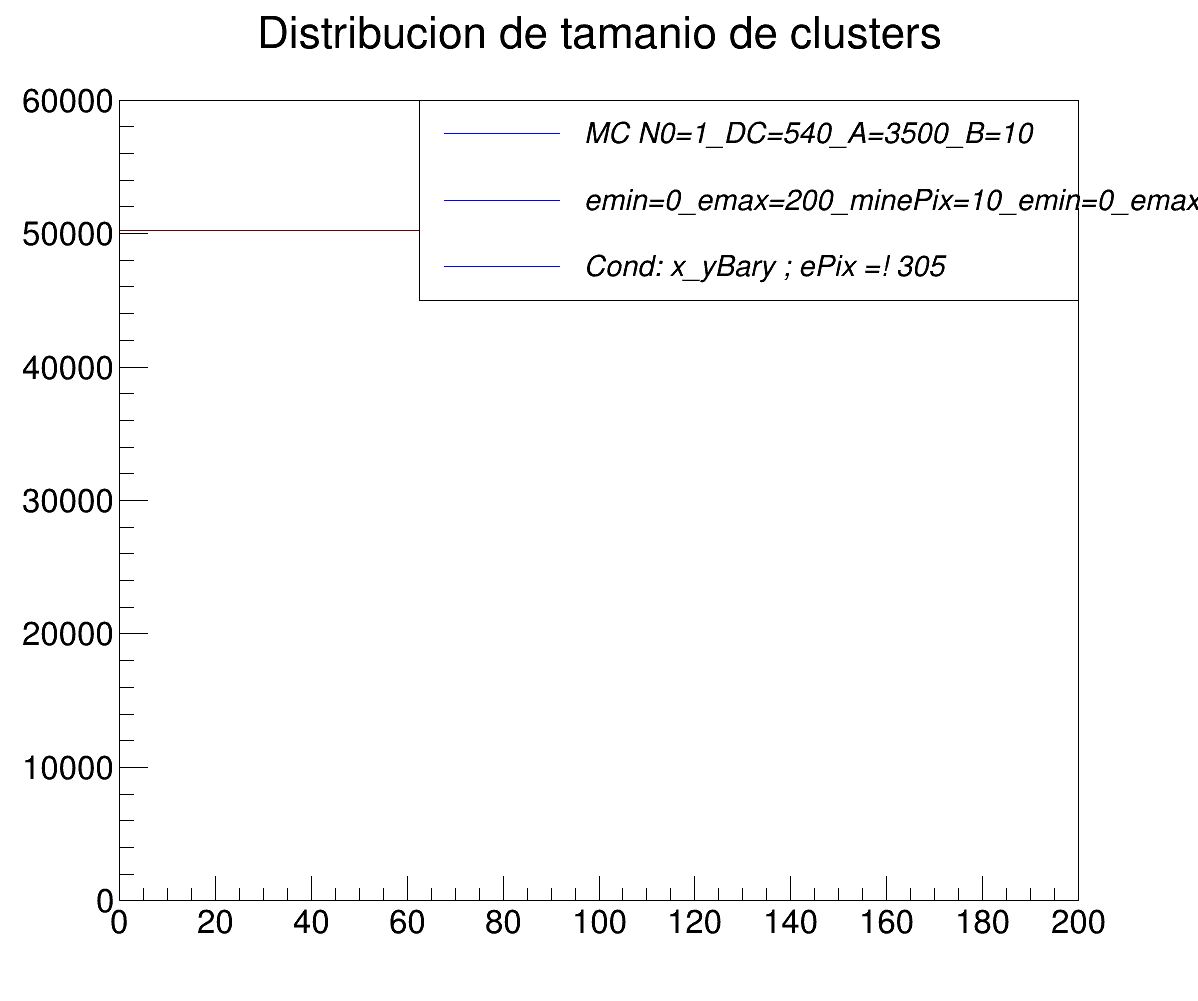
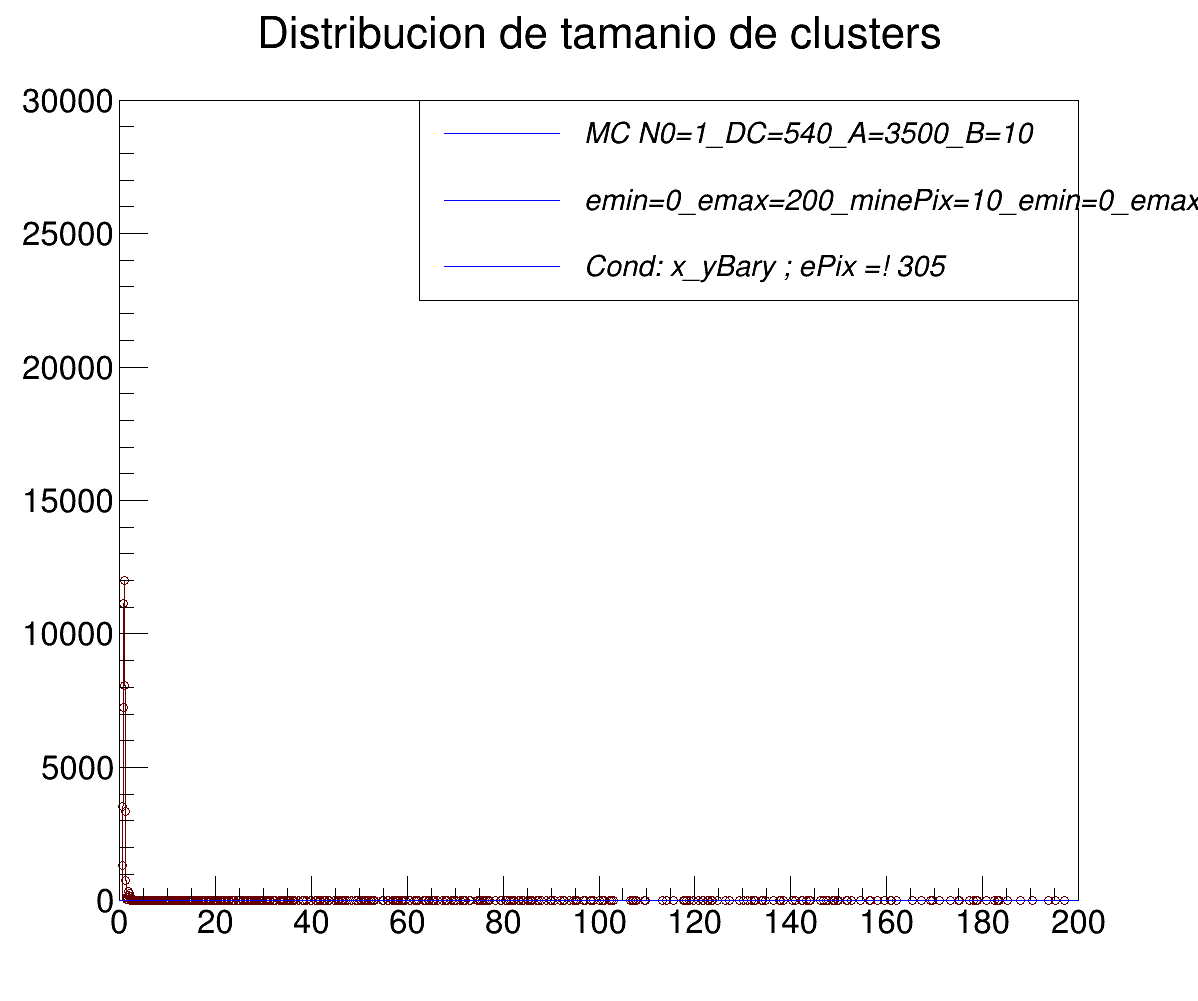
123456

diff --git a/MC/fano_calculator4.C b/MC/fano_calculator4.C
@@ -80,18 +80,22 @@ string itos(const int i){
 
 
 
-void fano_calculator3(){
+void fano_calculator4(){
 
 // Experimental Data ///////////////////////////////////////////////////
 // Get input files//////////////////////////////////////////////////////
 
 cout<<"min ePix: "<< minePix<<endl;
-					int M=14;
+					int M=1;
 					
 					ofstream myfile;
 					myfile.open ("../mejor/figures/example.txt");	
 
-				
+
+					TH1D * h_exp_e_total  =  new TH1D("h_exp_e_total","", 3000, emin, emax);
+					h_exp_e_total -> Sumw2();
+					
+				 
 					double mean_exp_fit[nbins][M];
 					double sigma_exp_fit[nbins][M];
 					double fano_exp_fit[nbins][M];
@@ -179,12 +183,13 @@ cout<<"min ePix: "<< minePix<<endl;
       									if (yBary>3 && yBary<48){
 
                  // cout << "i= "<< i << endl;
-									h_exp_e[ene]->Fill(e);
-									
-
-							
-									i++;
-                          }
+									for (int p = 0; p < ene; ++p){
+											h_exp_e[ene] -> Fill(ePix[p]);
+											h_exp_e_total->Fill(ePix[p]);
+											
+											//J++;
+											}
+											                          }
                         }
                       }
                     }
@@ -201,7 +206,7 @@ cout<<"min ePix: "<< minePix<<endl;
 						canvitas->cd();
 						fit1->Draw();
 						h_exp_e[ene]->Draw("HIST E1 same");
-						canvitas->SaveAs(("../mejor/figures/Fit_M="+itos(m)+"_N="+itos(ene)+"Fano3.png").c_str());
+						canvitas->SaveAs(("../mejor/figures/Fit_M="+itos(m)+"_N="+itos(ene)+"Fano4.png").c_str());
 
 
 						sigma_exp_fit[ene][m]= fit1->GetParameter(2);
@@ -226,9 +231,7 @@ cout<<"min ePix: "<< minePix<<endl;
 	} //closes for 
 	myfile.close();
 	
-	
-	
-	
+		
 		TCanvas *c3 = new TCanvas("c3","",200,10,1600,1000);
 		c3->SetFillColor(42);
 		c3->SetGrid();
@@ -286,7 +289,7 @@ cout<<"min ePix: "<< minePix<<endl;
 	}
 	//TGraph *grr = new TGraph(M,x,prom); 
 	//grr->Draw("AC same");
-	c3->SaveAs(("../mejor/figures/MeanGraph_N="+itos(nbins)+"_hasta M=+"+itos(M)+"_minePix="+itos(minePix)+"Fano3.png").c_str());
+	c3->SaveAs(("../mejor/figures/MeanGraph_N="+itos(nbins)+"_hasta M=+"+itos(M)+"_minePix="+itos(minePix)+"Fano4.png").c_str());
 	
 		TCanvas *c2 = new TCanvas("c2","",200,10,1600,1000);
 		c2->SetFillColor(42);
@@ -334,7 +337,7 @@ cout<<"min ePix: "<< minePix<<endl;
 	}
 	
 		
-		c2->SaveAs(("../mejor/figures/SigmaGraph_N="+itos(nbins)+"_hasta M=+"+itos(M)+"_minePix="+itos(minePix)+"Fano3.png").c_str());
+		c2->SaveAs(("../mejor/figures/SigmaGraph_N="+itos(nbins)+"_hasta M=+"+itos(M)+"_minePix="+itos(minePix)+"Fano4.png").c_str());
 		
 		
 		
@@ -372,8 +375,8 @@ cout<<"min ePix: "<< minePix<<endl;
 	   auto promedio_str = std::to_string(promedio);
 	   auto rms_str = std::to_string(RMS);
 	   
-	   gr->SetMinimum(0.0);
-	   gr->SetMaximum(0.3);
+	   gr->SetMinimum(0.095);
+	   gr->SetMaximum(0.2);
 	   gr->SetLineColor(j+1);
 	   gr->SetLineWidth(4);
 	   gr->SetMarkerColor(4);
@@ -395,7 +398,13 @@ cout<<"min ePix: "<< minePix<<endl;
 	}
 	//TGraph *grr = new TGraph(M,x,prom); 
 	//grr->Draw("AC same");
-	c1->SaveAs(("../mejor/figures/FanoGraph_N="+itos(nbins)+"_hasta M=+"+itos(M)+"_minePix="+itos(minePix)+"Fano3.png").c_str());
+	c1->SaveAs(("../mejor/figures/FanoGraph_N="+itos(nbins)+"_hasta M=+"+itos(M)+"_minePix="+itos(minePix)+"Fano4.png").c_str());
+
+		TCanvas *c4 = new TCanvas("c4","",200,10,1600,1000);
+		c4->cd();
+		h_exp_e_total->Draw();
+	
+
 
 }
 

diff --git a/MC/Plot_ePix.C b/MC/Plot_ePix.C
@@ -34,11 +34,11 @@ void Enable_and_Set_Branches(TTree* & tree);
 // Setting parameters //////////////////////////////////////////////////
 
 // range for the number of electrons per cluster
-  int emin =0 ; int emax = 200;
+  int emin =0 ; int emax = 5;
   int ohdu_numer = 4;
 //number of bins to take into account for chi2
   int   bines = 7;
-  float minePix = 10; // will be clasified as 1e-
+  float minePix = 0; // will be clasified as 1e-
 
   ////////////////////////////////////////////////////////////////////////
 
@@ -51,7 +51,7 @@ void Enable_and_Set_Branches(TTree* & tree);
   //int xBary_min=0;int xBary_max=100;
   //int yBary_min=0;int yBary_max=100;
 
-  int nbins = xmax*10+1;
+  int nbins = xmax*100+1;
 
   const int maxClusterSize = 50000;
 
@@ -107,15 +107,16 @@ cout<<"min ePix"<< minePix<<endl;
 					for(int i_event=0;i_event<Entries_exp; i_event++){
 
 					texp->GetEntry(i_event);
+					
 
-						if (ohdu == ohdu_numer) {
+						if (ohdu == ohdu_numer) { 
 							if (e>emin && e<emax){  // number of electrons
 
 								// Check if one of the pixels in the cluster is smaller that minePix
-								bool LowPixInCluster = false;
+								bool LowPixInCluster = true;
 								for (int p = 0; p < nSavedPix; ++p){
 									if(ePix[p]<minePix){
-										LowPixInCluster = true;
+										LowPixInCluster = false;
 										break;
 									}
 								}
@@ -172,6 +173,7 @@ cout<<"min ePix"<< minePix<<endl;
 				// Get input files//////////////////////////////////////////////////////
 
 
+
 					TFile * f_mc = TFile::Open(("./Grilla DC A=3500 B=10/output_N0="+itos(N)+"_DC="+itos(DC)+"_A="+itos(A)+"_B="+itos(B)+".root").c_str());
 
 					if (!f_mc->IsOpen()) {std::cerr << "ERROR: cannot open the root file with MC data" << std::endl;}
@@ -205,7 +207,7 @@ cout<<"min ePix"<< minePix<<endl;
 									
 
 										// Fill the histogram with the variable n
-											h_exp_n -> Fill(e);
+											h_exp_n -> Fill(0);
 					
 
 								    	// Fill the histogram with the variable ePix
